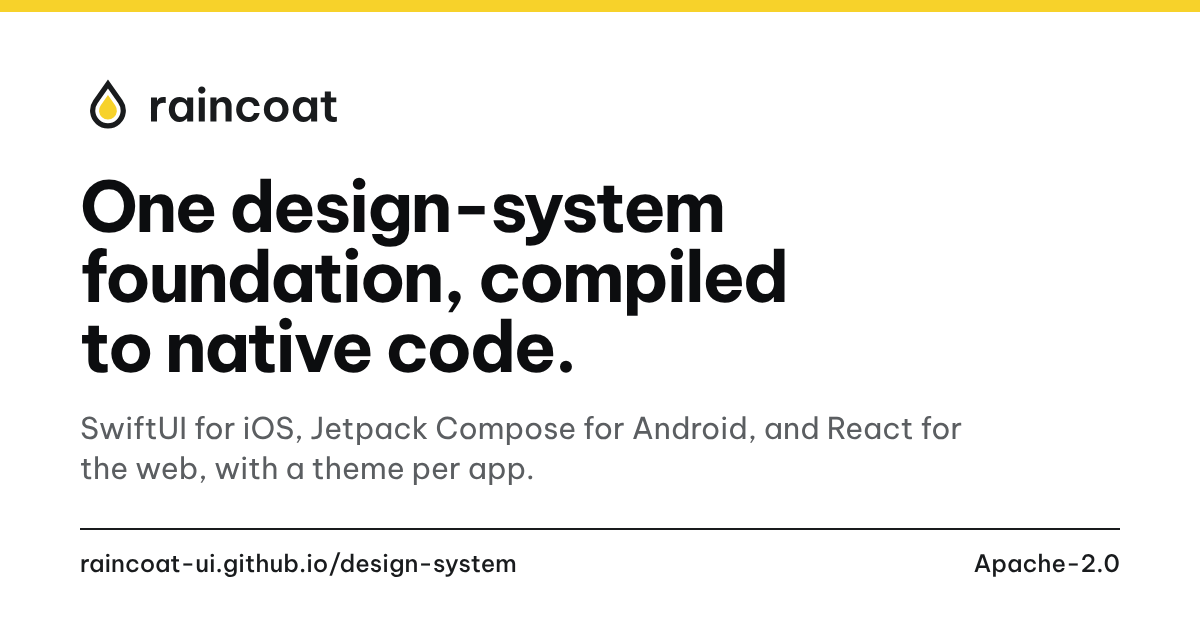
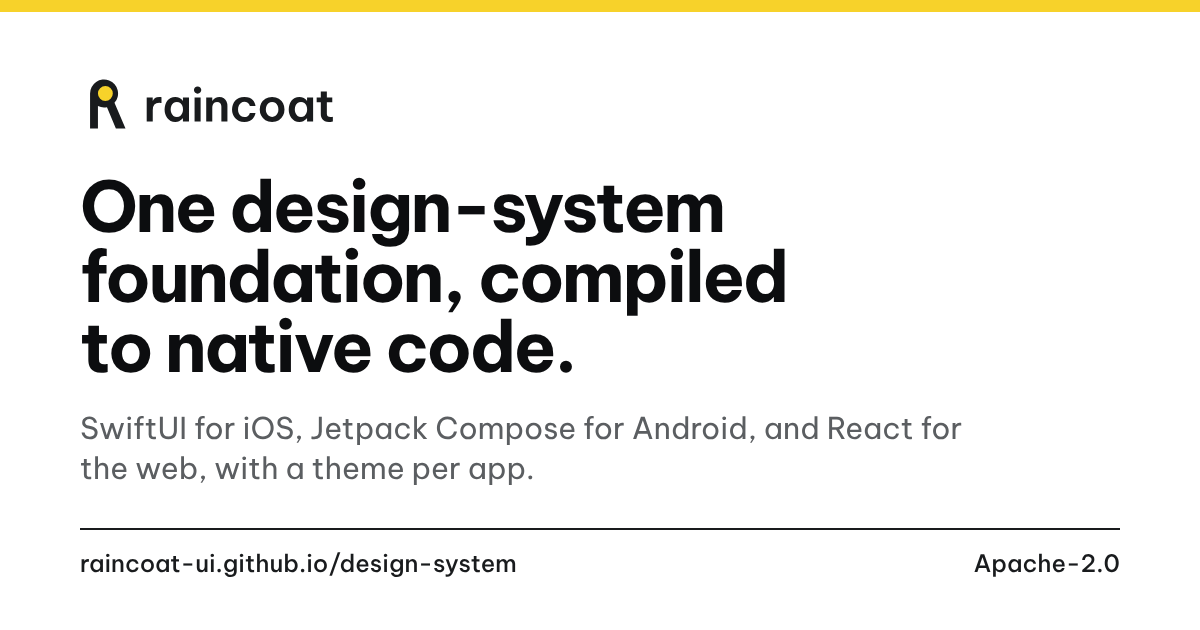
docs(brand): redraw the mark as a hooded R (#39)
Replace the layered-raindrop mark with a symbol for the raincoat: a
capital R drawn as a raincoat seen from the side, hood up. The bowl is
the hood, the stem is the coat's back and the leg is its front, falling
to the hem. The hood's opening sits slightly forward of the hood's
center, so its wall is as wide as the stem at the back and thins toward
the brim, and a yellow lining fills it.

The mark keeps the drop's division of color: the ink R is the layer
Raincoat provides, and the yellow lining is the app it protects and the
only part a theme may recolor.

Construction, on the 64-unit grid: the hood is a circle of radius 16
centered at (27.5, 20); the stem is 9 units wide; the opening is a
circle of radius 8.5, 1.5 units forward, tangent to the line of the
stem's inner edge; the leg's edges leave the hood at 42 and 78 degrees
and run straight to an 11-unit hem. The wordmark is unchanged and sits
5 units closer to the mark, on a 291.4 by 64 canvas.

- brand/: every mark, logo and app-icon SVG (light, reversed and
  one-color), and README.md (construction, clear space and rules).
- apps/docs/: the header logos, favicon.svg, and the re-rendered
  apple-touch-icon.png and social-preview.png.
- PRODUCT.md and DESIGN.md: the entries that describe the mark.

---------

Claude-Session: https://claude.ai/code/session_01KkBN9DYNoMn23gyv3fhEa3

Changed region(s): [[0.0617, 0.1206, 0.2775, 0.2111]]

diff --git a/brand/README.md b/brand/README.md
@@ -1,8 +1,9 @@
 # Raincoat brand marks
 
-The mark is a layered raindrop. The ink shell is the layer Raincoat provides, and the yellow core
-is the app it protects. That is the README's line, "the layer that protects you when you are out
-in the rain", drawn as a shape.
+The mark is a capital R drawn as a raincoat seen from the side, hood up. The bowl is the hood, the
+stem is the coat's back and the leg is its front, falling to the hem. The ink R is the layer
+Raincoat provides, and the yellow lining showing in the hood is the app it protects. That is the
+README's line, "the layer that protects you when you are out in the rain", drawn as a letter.
 
 These files are Raincoat's own identity, licensed with the rest of the repository. They are not a
 theme asset: brand apps built on Raincoat never show them.
@@ -39,18 +40,31 @@ pnpm exec playwright screenshot --viewport-size "1200, 630" --wait-for-timeout 5
 
 ## Construction
 
-- The shell is a circle and its two tangents to an apex point. The hole and the core are the same
-  shape inset by 6 and 10.25 units on a 64-unit grid, so the shell and the gap keep an even width
-  all the way round, apex included.
+- The R is drawn on a 64-unit grid, from y = 4 to the baseline at y = 60. The hood is a circle of
+  radius 16 centered at (27.5, 20), so it takes the top 32 units, a little over half the height.
+  The stem drops from its left edge to the baseline, 9 units wide.
+- The hood's opening is a circle of radius 8.5, set 1.5 units forward of the hood's center, so
+  its back is tangent to the line of the stem's inner edge. The hood wall is 9 units at the back,
+  the stem's width, 7.5 at the top and bottom, and thins to 6 at the brim, the way a hood frames
+  a face.
+- The leg is the coat's front. Its edges leave the hood 42° and 78° below the hood's right-hand
+  side, measured from the hood's center, and run straight to a hem 11 units wide that ends at
+  x = 52. Measured across the stroke the leg is about as heavy as the stem, flaring very slightly
+  toward the hem, and the hood's round underside shows between the leg and the stem.
+- On light and dark backgrounds a yellow lining fills the opening. It is drawn under the R and a
+  unit larger than the opening, so no seam shows at its edge. In one color the opening is left
+  open.
 - The wordmark is "raincoat" set lowercase in Be Vietnam Pro SemiBold (OFL-1.1), the system's own
-  `font.family.sans`, tracked at −0.015 em and converted to outlines. The SVGs embed no font.
-- Colors are primitive tokens: ink `color.neutral.900` (`#191b1d`) and yellow `color.brand.400`
-  (`#f7d22a`). On dark backgrounds the shell turns white and the core stays yellow.
+  `font.family.sans`, tracked at −0.015 em and converted to outlines. The SVGs embed no font. In
+  the lockup it starts 24 units after the leg's foot, on a canvas 291.4 by 64 units.
+- Colors are primitive tokens: ink `color.neutral.900` (`#191b1d`) for the R and the wordmark,
+  and yellow `color.brand.400` (`#f7d22a`) for the lining. On dark backgrounds the R and the
+  wordmark turn white and the lining stays yellow. The app icon is the white R on an ink tile.
 
 ## Rules
 
-- Keep clear space of at least the shell's width (6/64 of the mark's height) on every side.
+- Keep clear space of at least the brim's width (6/64 of the mark's height) on every side.
 - Use the mark at 16 px or larger, or the app icon below that. Use the full logo at 20 px tall or
   larger.
-- Do not recolor the shell, outline the mark, add effects, or set the wordmark in another
-  typeface. The core is the only part that may change color, and only to show what theming does.
+- Do not recolor the R, outline the mark, add effects, or set the wordmark in another typeface.
+  The lining is the only part that may change color, and only to show what theming does.

diff --git a/DESIGN.md b/DESIGN.md
@@ -199,7 +199,7 @@ One evenly stepped ink ramp, one yellow, one red; everything else is paper.
 - **Yellow Ink** (`brand.800`, `color.fg.accent`): the accent as readable text on paper, where yellow itself would fail contrast. Dark mode uses `brand.300`.
 
 ### Neutral
-- **Ink** (`neutral.900`): default text (`color.fg.default`), the strong border (`color.border.strong`) and the light-mode focus ring. Every ink rule on the docs site (the header rule, section openers, table heads, caution notes) is `color.border.strong`, so it follows the token in each mode (`neutral.100` in dark). The logo shell is this ink.
+- **Ink** (`neutral.900`): default text (`color.fg.default`), the strong border (`color.border.strong`) and the light-mode focus ring. Every ink rule on the docs site (the header rule, section openers, table heads, caution notes) is `color.border.strong`, so it follows the token in each mode (`neutral.100` in dark). The logo's R is this ink.
 - **Ink Deep** (`neutral.950`): text on yellow (`color.fg.on-accent`) and the docs site's headings in light mode.
 - **Graphite** (`neutral.600`): muted text (`color.fg.muted`) and the sidebar's section numbers.
 - **Number Grey** (`neutral.500`): the section number before a page title, and the resting underline of links.
@@ -267,7 +267,7 @@ Every corner is **2px** (`radius.sm`, `radius.md`, `radius.lg` all resolve to 2p
 
 Borders come in three weights, all locked: 1px thin (controls, hairlines), 2px thick (section rules), 2px focus ring offset by 2px (`button.focus-ring.offset`, also used for the site-wide `:focus-visible` outline).
 
-The mark is the one curved form: a layered raindrop, an ink shell around a yellow core, built on a 64-unit grid (`brand/README.md`). Only the core may change color, and only to show theming.
+The mark is a capital R drawn as a hooded raincoat seen from the side, built on a 64-unit grid (`brand/README.md`); its hood is the one curved form. Only the yellow lining in the hood may change color, and only to show theming.
 
 ## Components
 
@@ -321,4 +321,4 @@ A component shown in a framed panel that sets its own `data-theme` and `data-den
 - **Don't** set headings, labels or buttons in JetBrains Mono.
 - **Don't** place eyebrow labels above titles; the section number leads the title on its line.
 - **Don't** change spacing, border widths, the 44px minimum target, focus ring rules or contrast minimums in a theme; they are locked.
-- **Don't** recolor the logo shell, outline the mark, or set the wordmark in another face.
+- **Don't** recolor the logo's R, outline the mark, or set the wordmark in another face.

diff --git a/PRODUCT.md b/PRODUCT.md
@@ -116,10 +116,12 @@ Raincoat in awesome-design-systems.
 - **Name:** Raincoat, chosen by the maintainer for its meaning: a layer that protects you when
   you are out in the rain. The identifiers in ADR 0012 are hard-coded by consumers and must not
   change.
-- **Mark:** a layered raindrop: an ink shell, a gap, and a yellow core (`brand/`, usage in
-  `brand/README.md`). The shell is the layer Raincoat provides; the core is what it protects. The
-  wordmark is lowercase "raincoat" in Be Vietnam Pro SemiBold, converted to outlines. The docs
-  favicon and header use it. It replaces the earlier raindrop-in-a-square favicon.
+- **Mark:** a capital R drawn as a raincoat seen from the side, hood up: the bowl is the hood,
+  the stem the coat's back and the leg its front (`brand/`, usage in `brand/README.md`). The ink
+  R is the layer Raincoat provides; the yellow lining in the hood is the app it protects, and the
+  only part a theme may recolor. The wordmark is lowercase "raincoat" in Be Vietnam Pro
+  SemiBold, converted to outlines. The docs favicon and header use it. It replaces the earlier
+  layered raindrop and, before that, a raindrop-in-a-square favicon.
 - **Raincoat has no brand voice of its own in the apps.** Each brand's voice belongs to its
   theme. A system-wide voice-and-tone guide for UI text is planned but not yet written.
 
